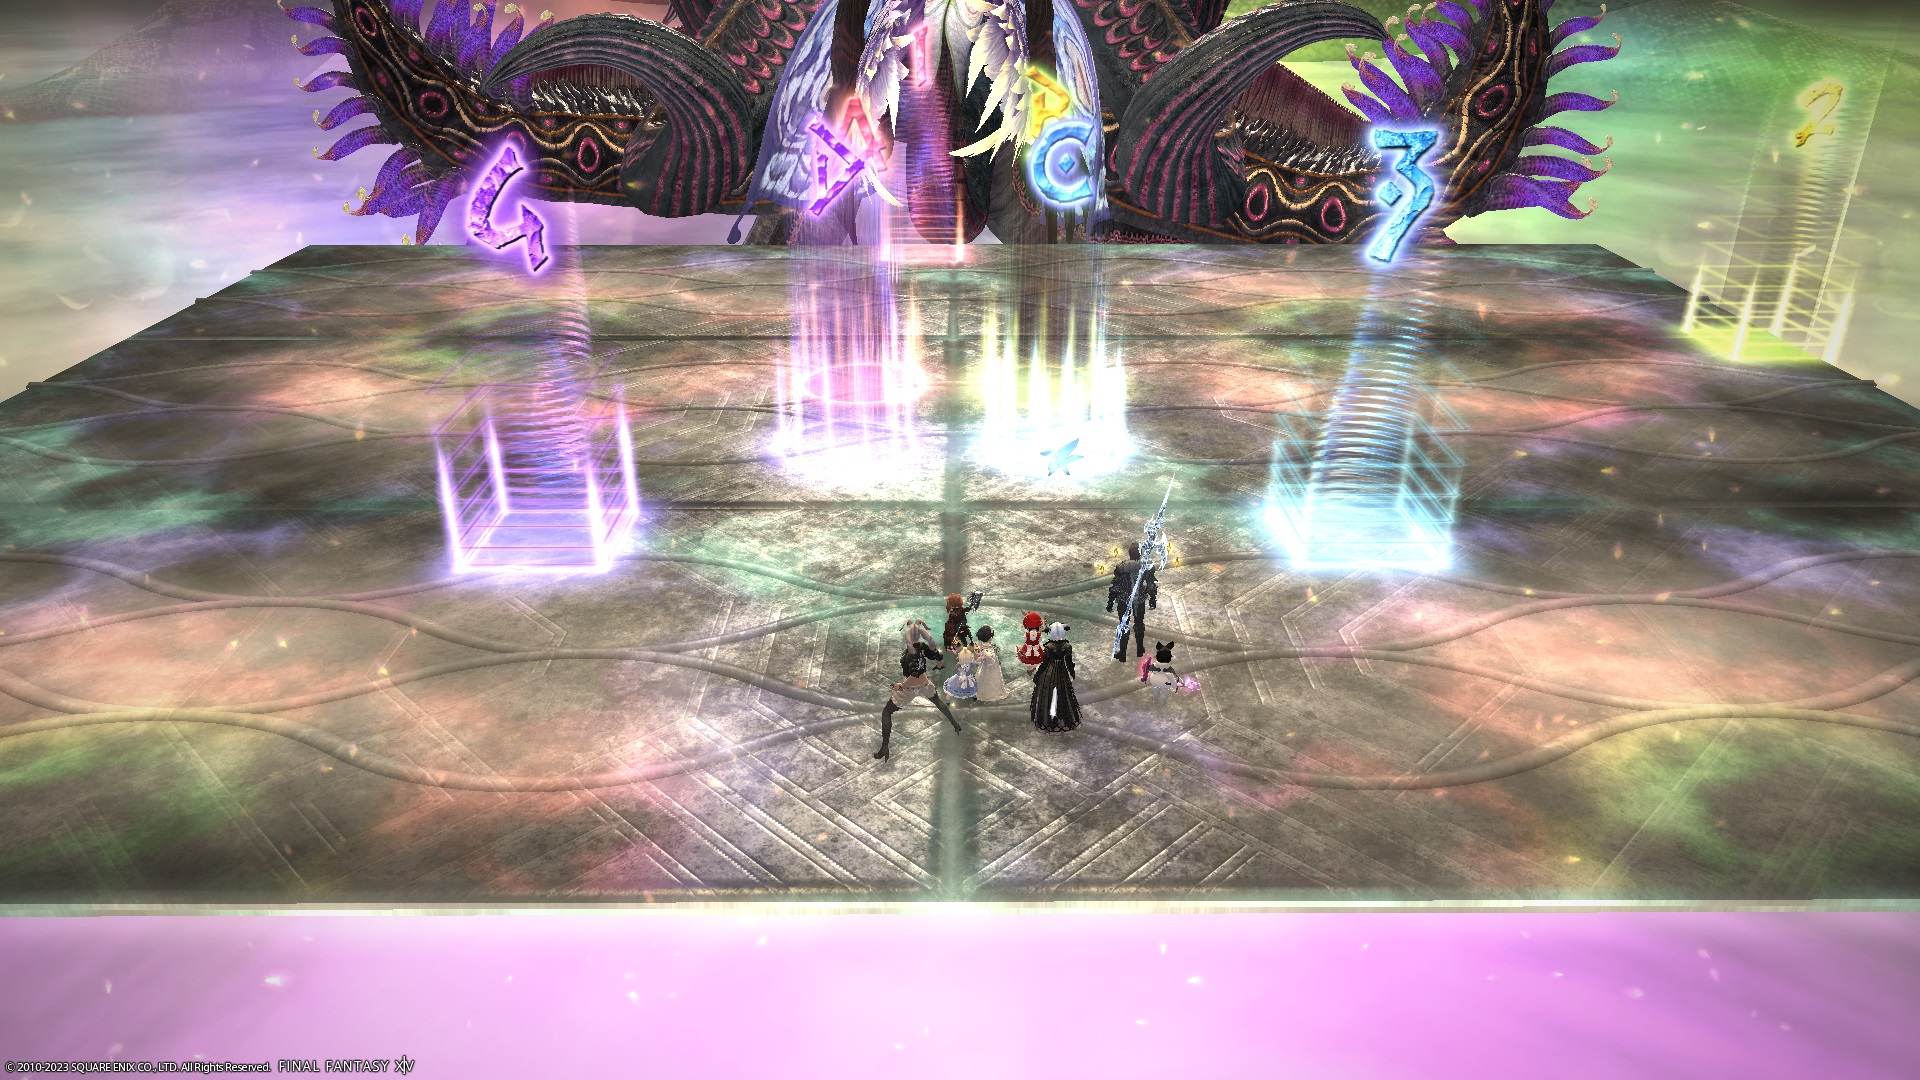
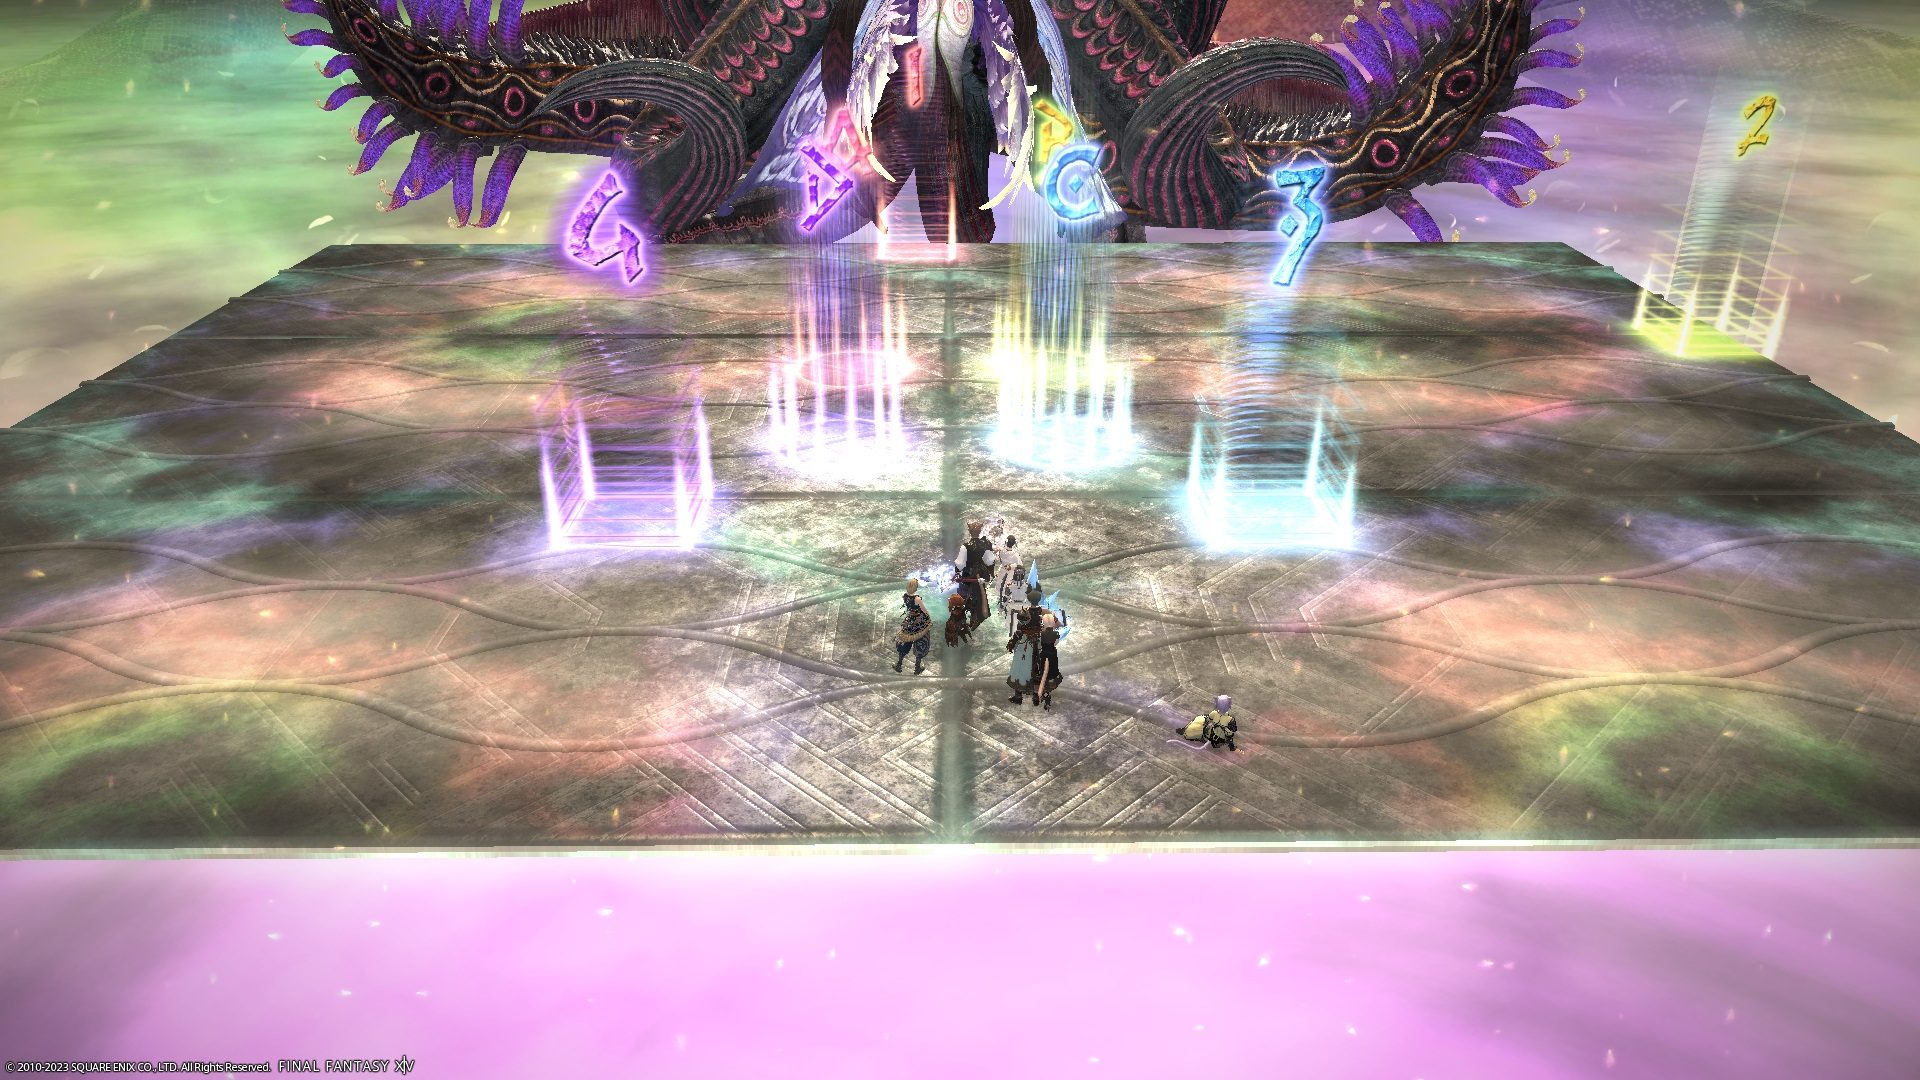
Update markers

diff --git a/6.0_endwalker/savage_raids/p12s_2/README.md b/6.0_endwalker/savage_raids/p12s_2/README.md
@@ -31,7 +31,17 @@ Meanwhile, Nukemaru has published a video outlining the PF strat:
 
 ## Markers
 
+The following markers are for Mochibe's Caloric Theory 1 strat:
+
 ![](images/markers.jpg)
+<details markdown=block>
+<summary>XIVLauncher WaymarkPresetPlugin positions</summary>
+
+```json
+{"Name":"P12S-2 (Mochibe)","MapID":943,"A":{"X":97.67,"Y":0.0,"Z":92.67,"ID":0,"Active":true},"B":{"X":102.33,"Y":0.0,"Z":92.67,"ID":1,"Active":true},"C":{"X":102.33,"Y":0.0,"Z":97.33,"ID":2,"Active":true},"D":{"X":97.67,"Y":0.0,"Z":97.33,"ID":3,"Active":true},"One":{"X":99.0,"Y":0.0,"Z":81.0,"ID":4,"Active":true},"Two":{"X":119.0,"Y":0.0,"Z":91.0,"ID":5,"Active":true},"Three":{"X":105.67,"Y":0.0,"Z":101.0,"ID":6,"Active":true},"Four":{"X":94.33,"Y":0.0,"Z":101.0,"ID":7,"Active":true}}
+```
+
+</details>
 
 ## Timeline
 ![](images/timeline.jpg)
